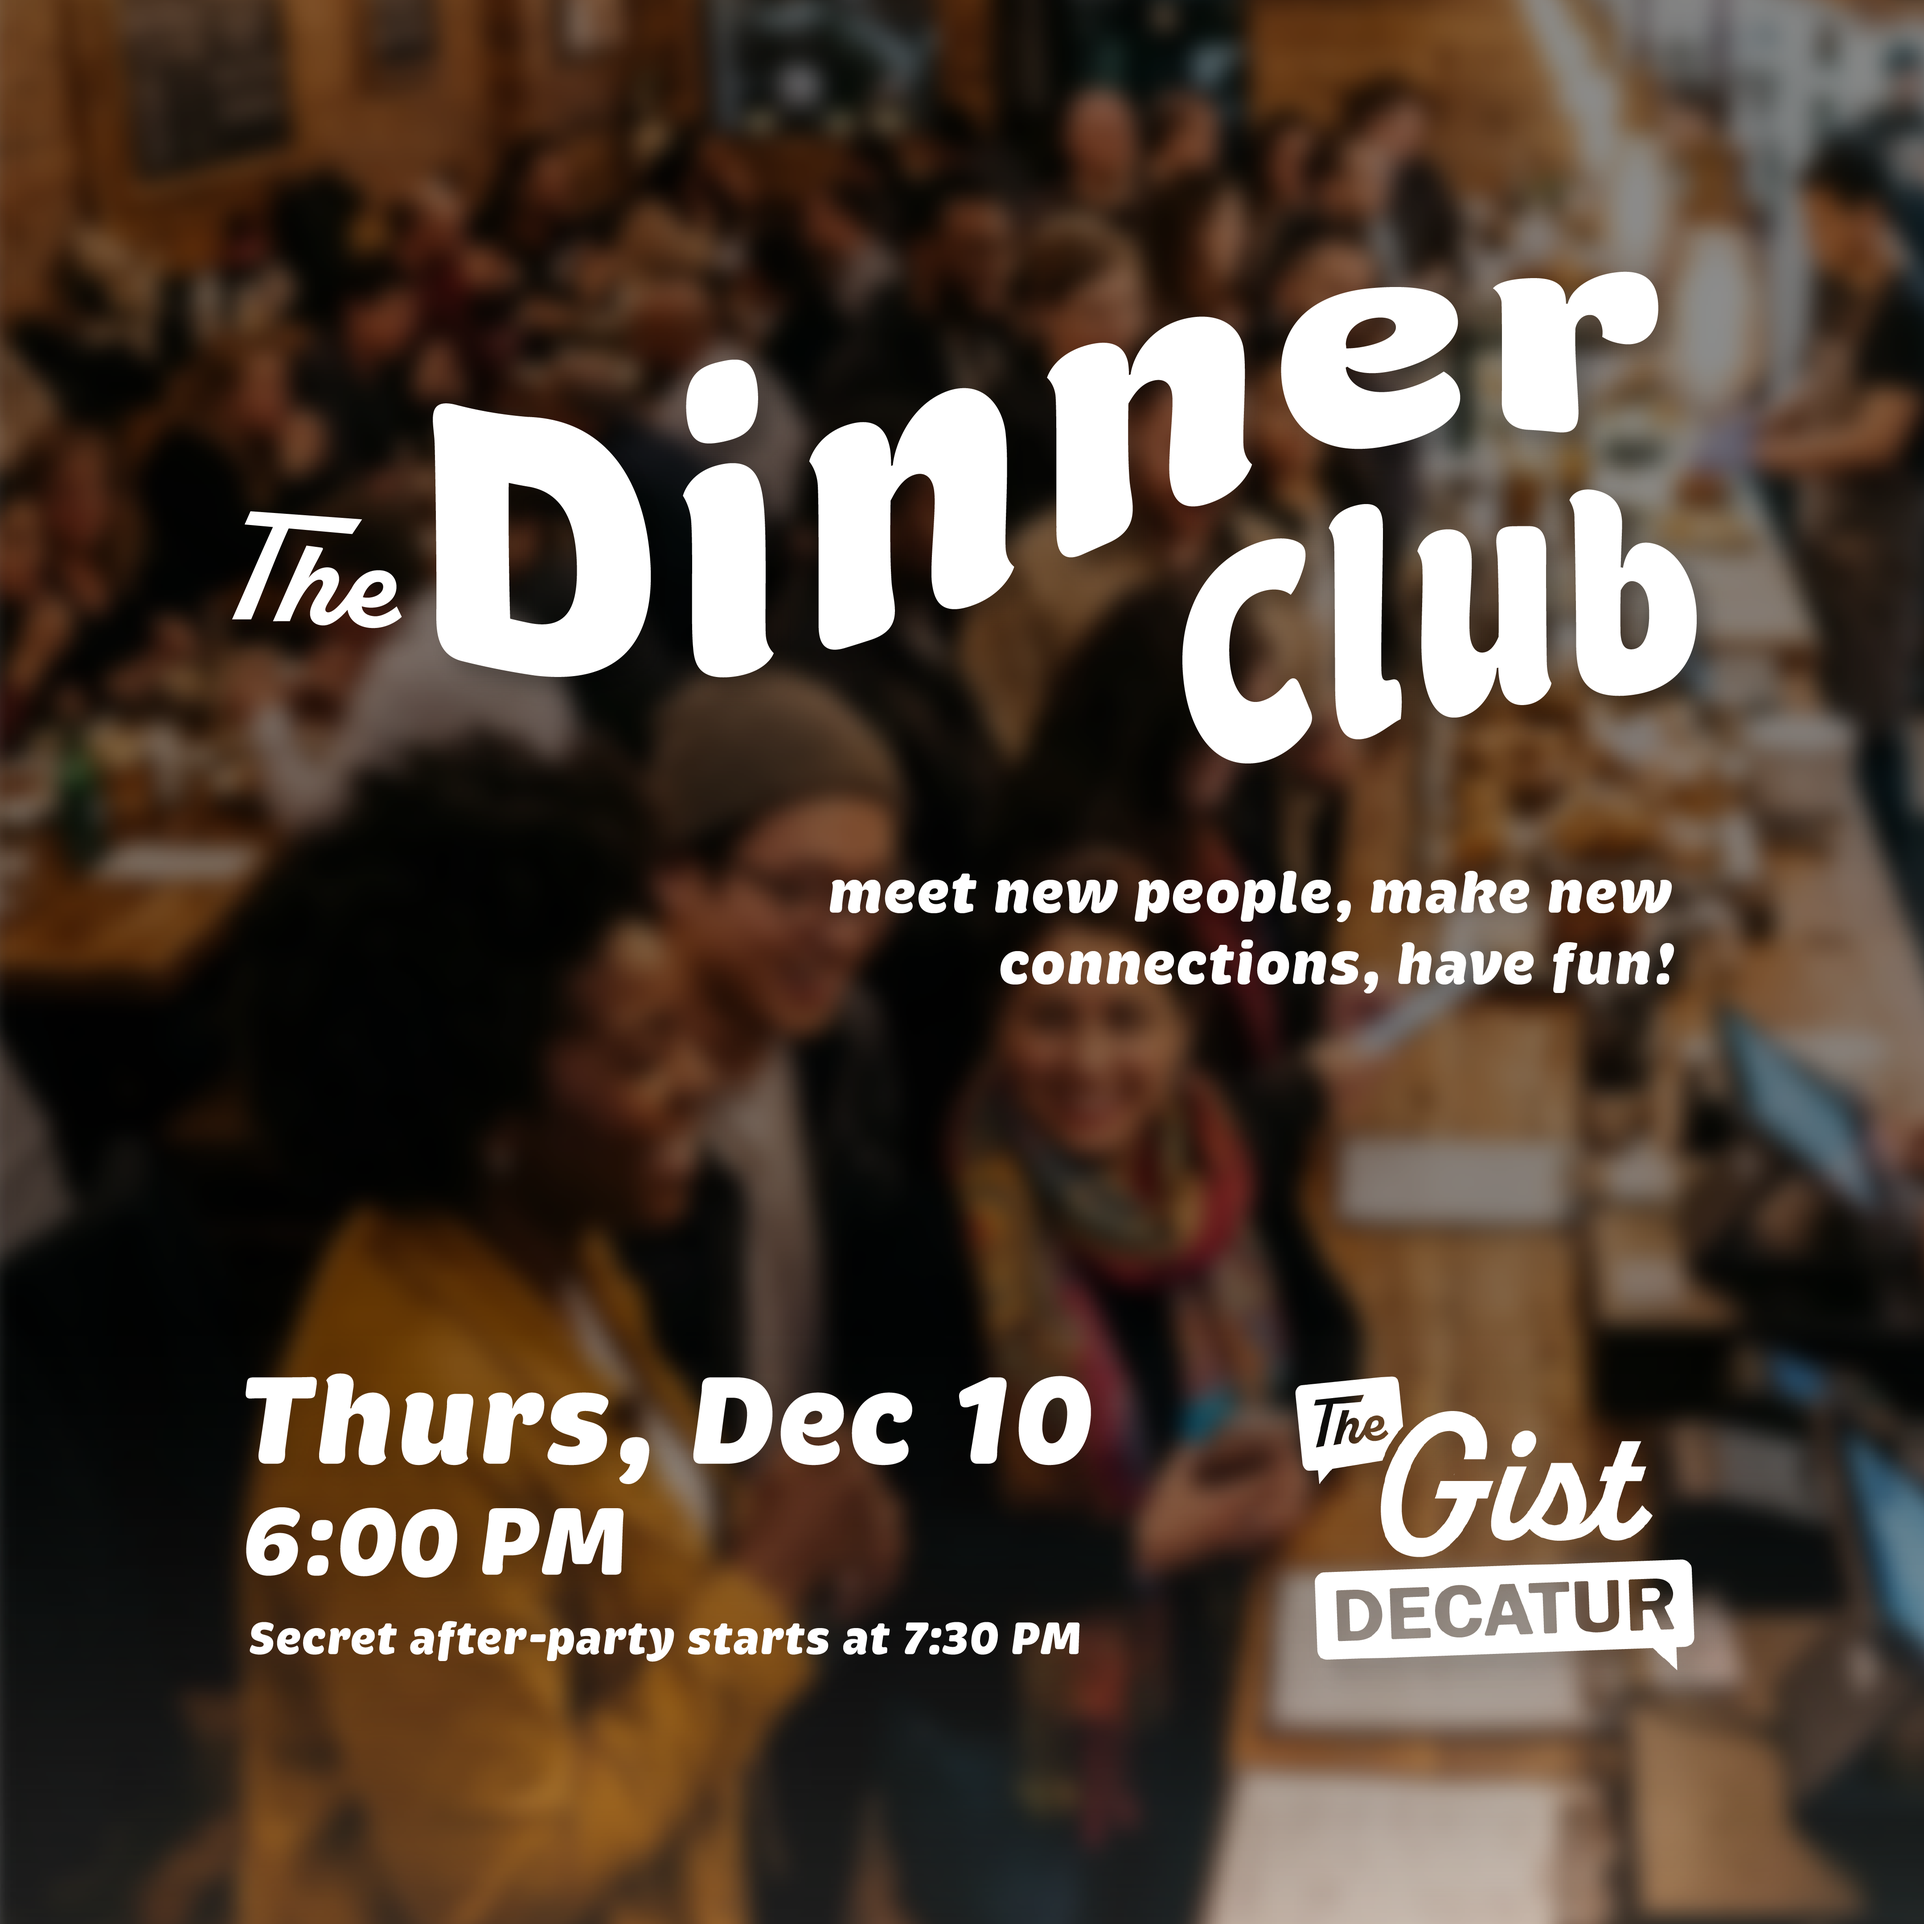
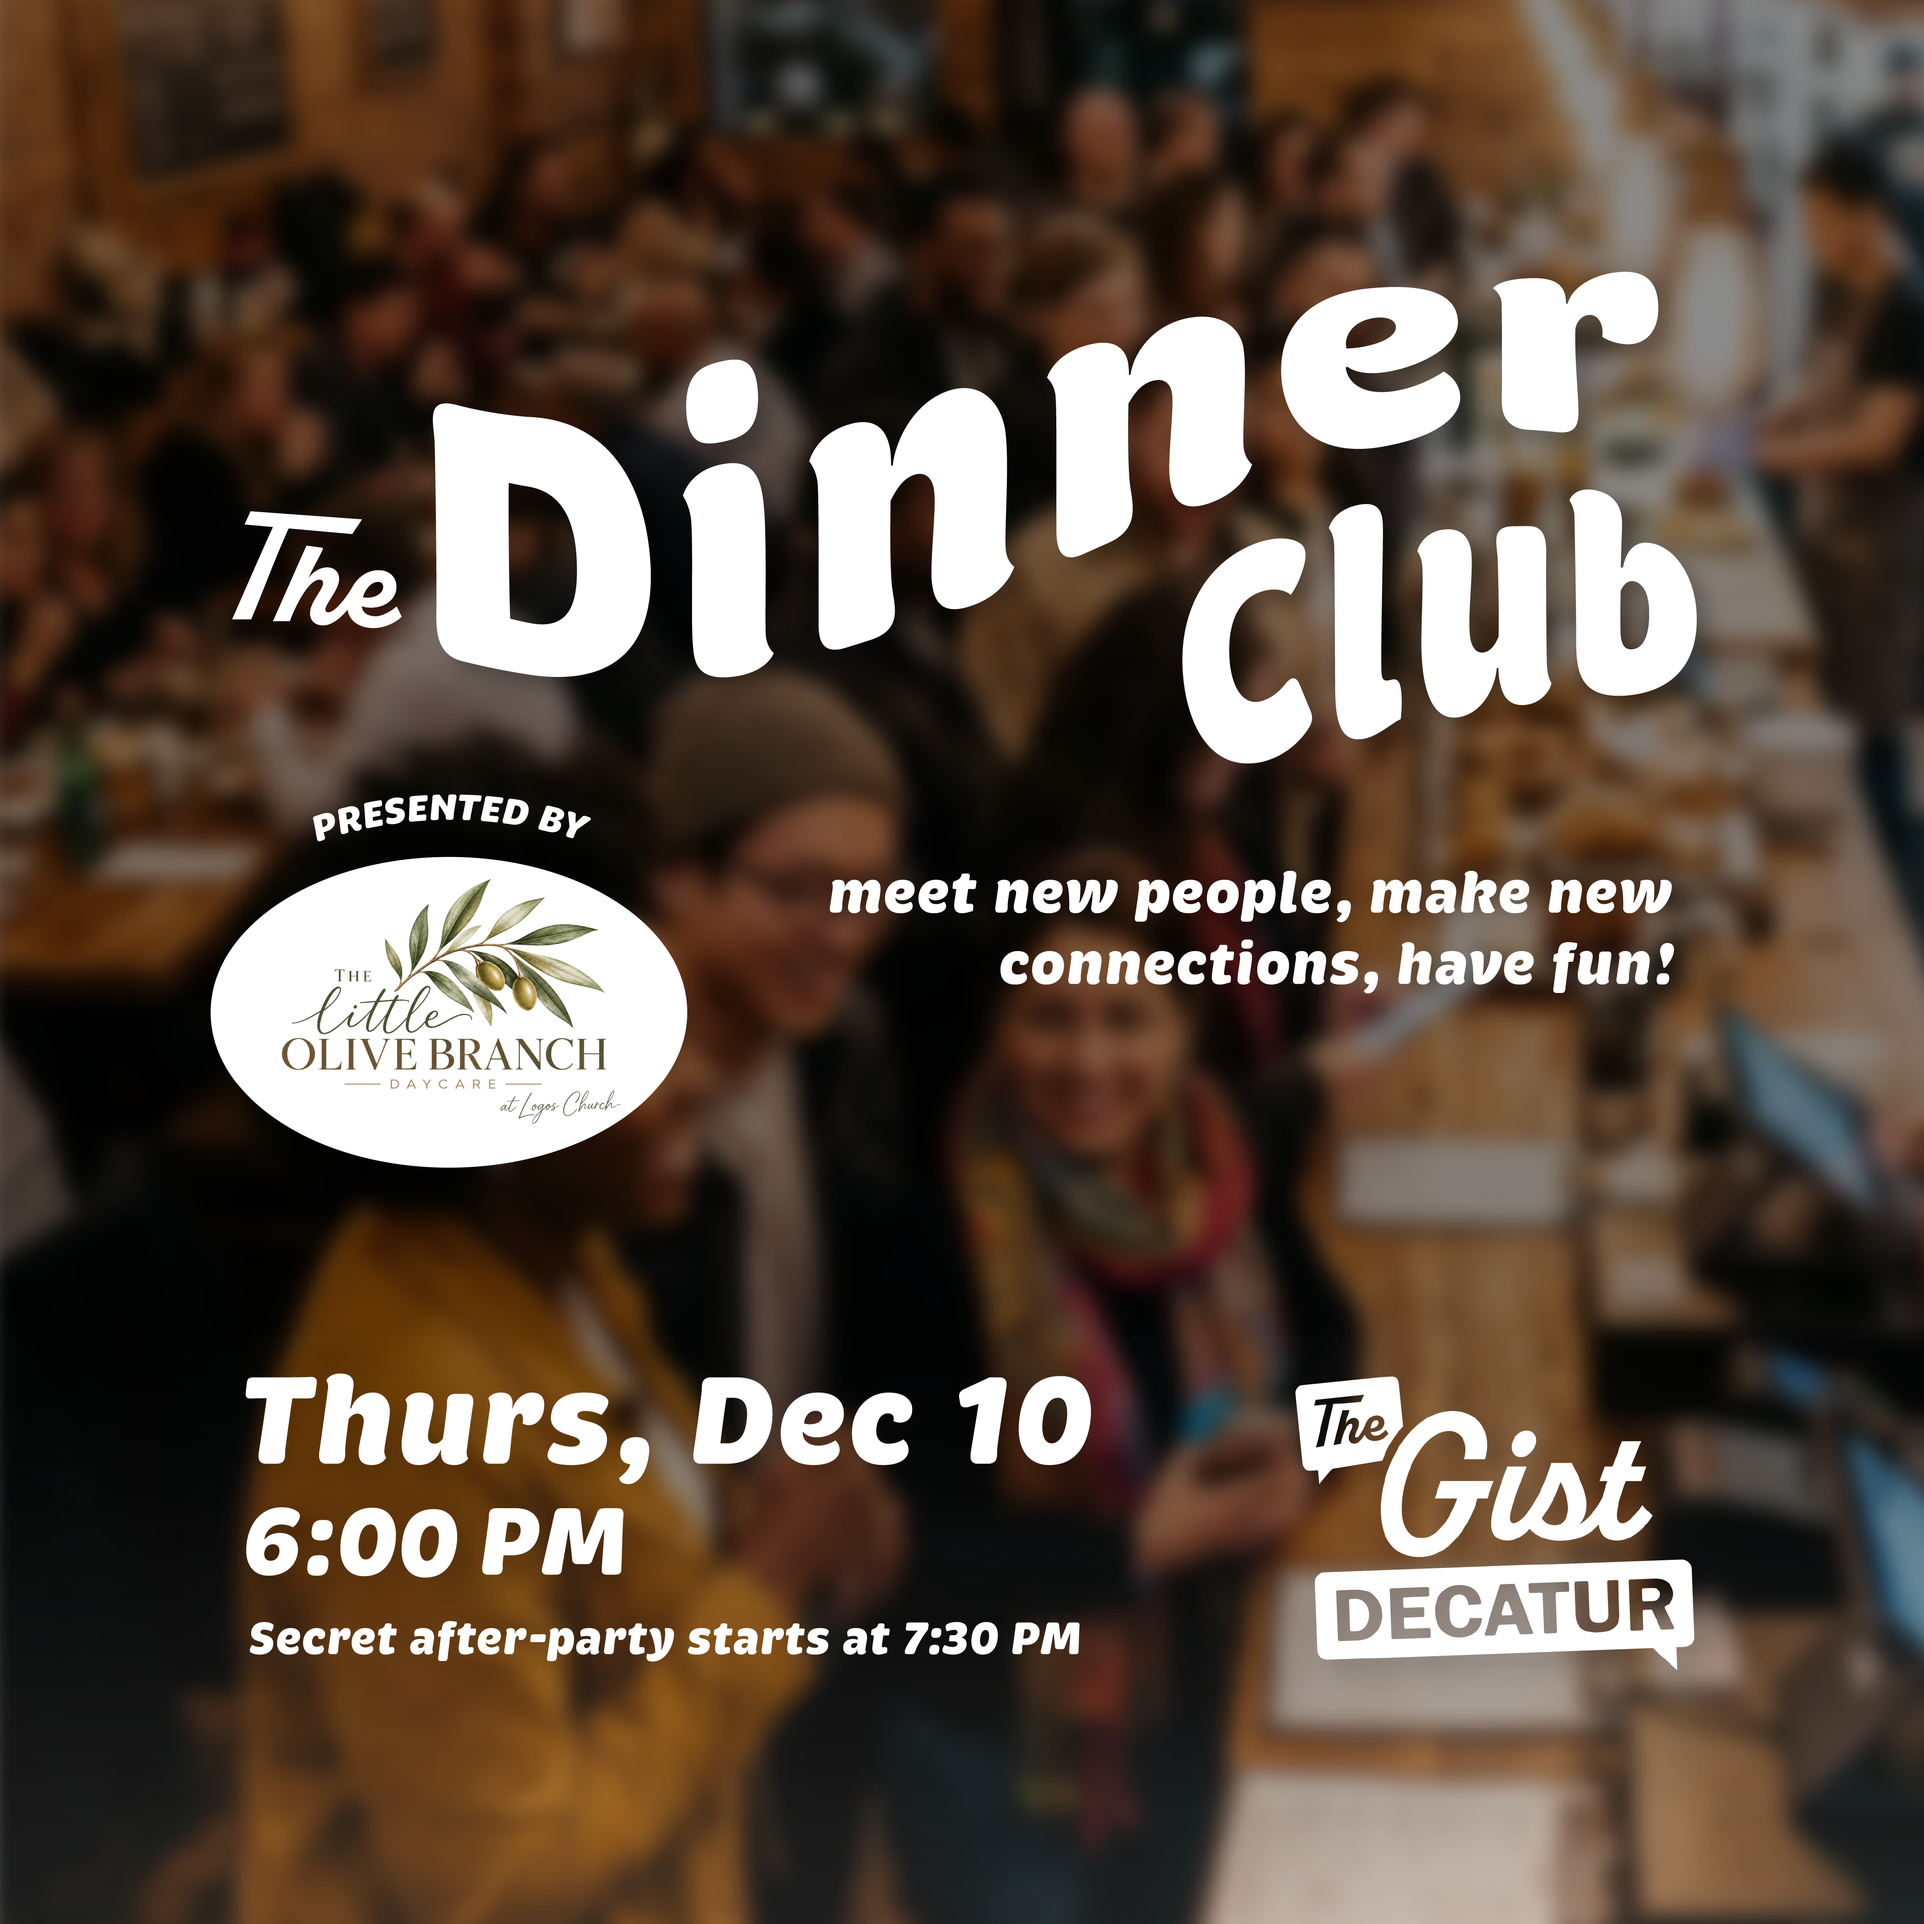
Dinner Club: swap in Dec 10 graphic (6 PM) and fix alt text

Changed region(s): [[0.0931, 0.4035, 0.3725, 0.6208]]

diff --git a/app/dinner-club/page.tsx b/app/dinner-club/page.tsx
@@ -43,7 +43,7 @@ export default async function DinnerClubPage() {
           <div className="inline-block mt-6 bg-green-50 border border-green-100 rounded-2xl px-5 py-5 text-center">
             <Image
               src="/the-gist-dinner-club.png"
-              alt="The Dinner Club: meet new people, make new connections, have fun! Thursday, December 10 at 6 PM, secret afterparty starts at 8 PM."
+              alt="The Dinner Club: meet new people, make new connections, have fun! Thursday, December 10 at 6:00 PM, secret after-party starts at 7:30 PM. Presented by The Little Olive Branch Daycare."
               width={4317}
               height={4317}
               className="w-full max-w-[320px] h-auto rounded-xl mx-auto"
@@ -124,3 +124,4 @@ export default async function DinnerClubPage() {
     </div>
   );
 }
+
